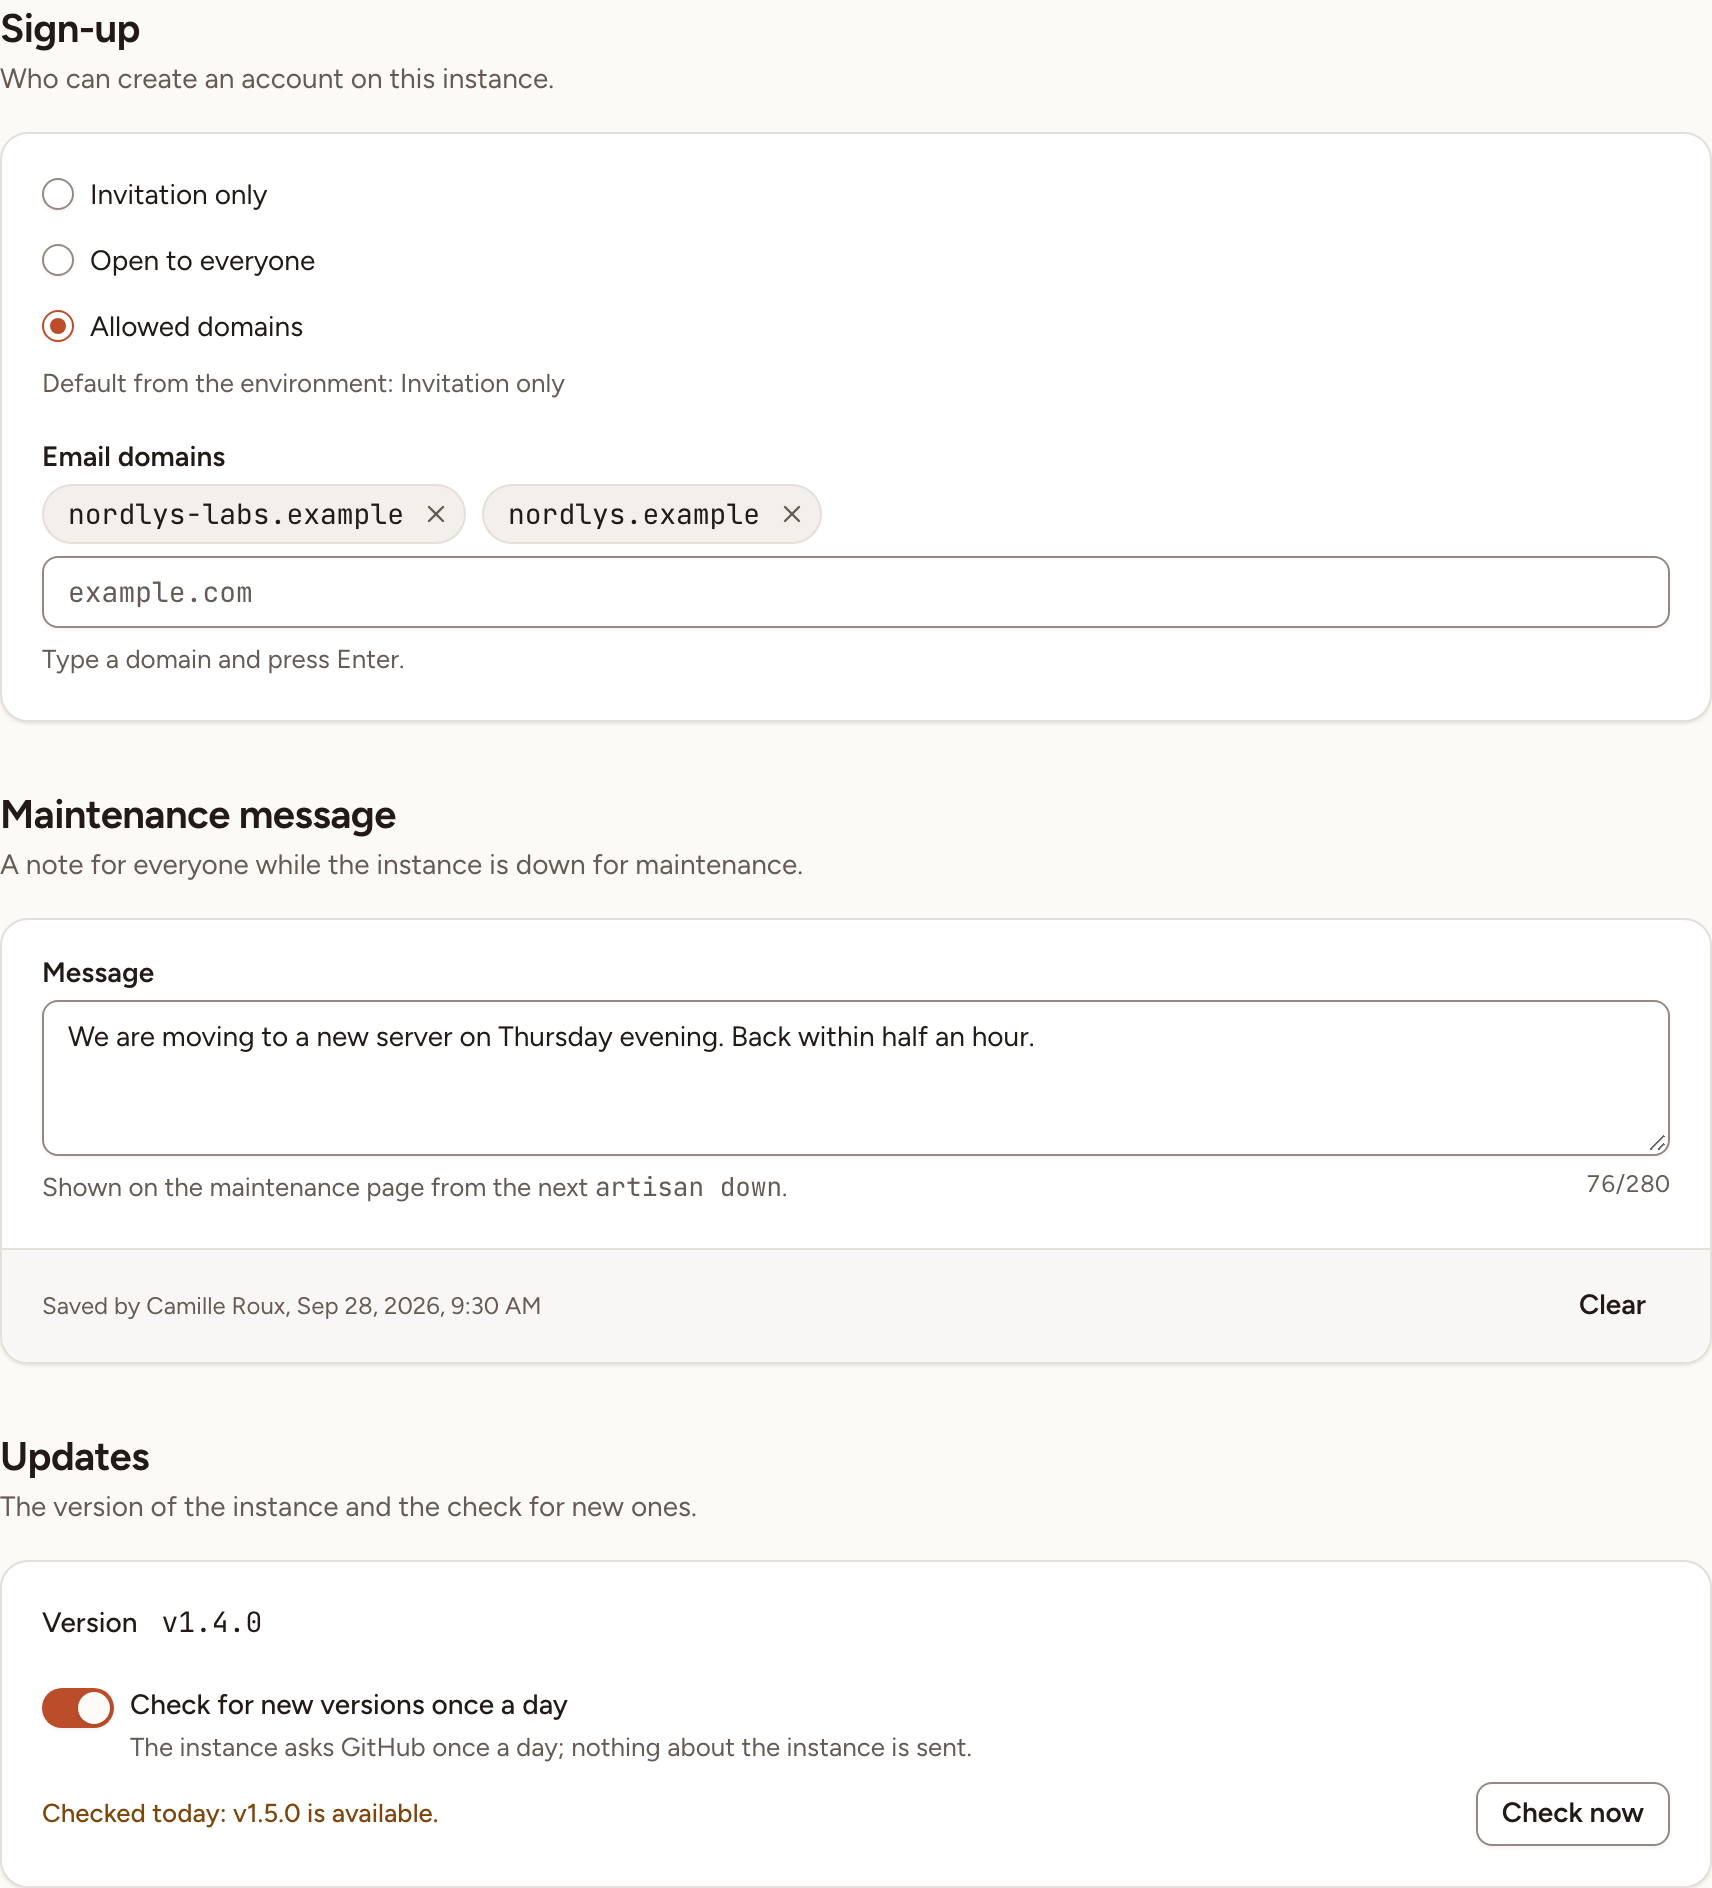
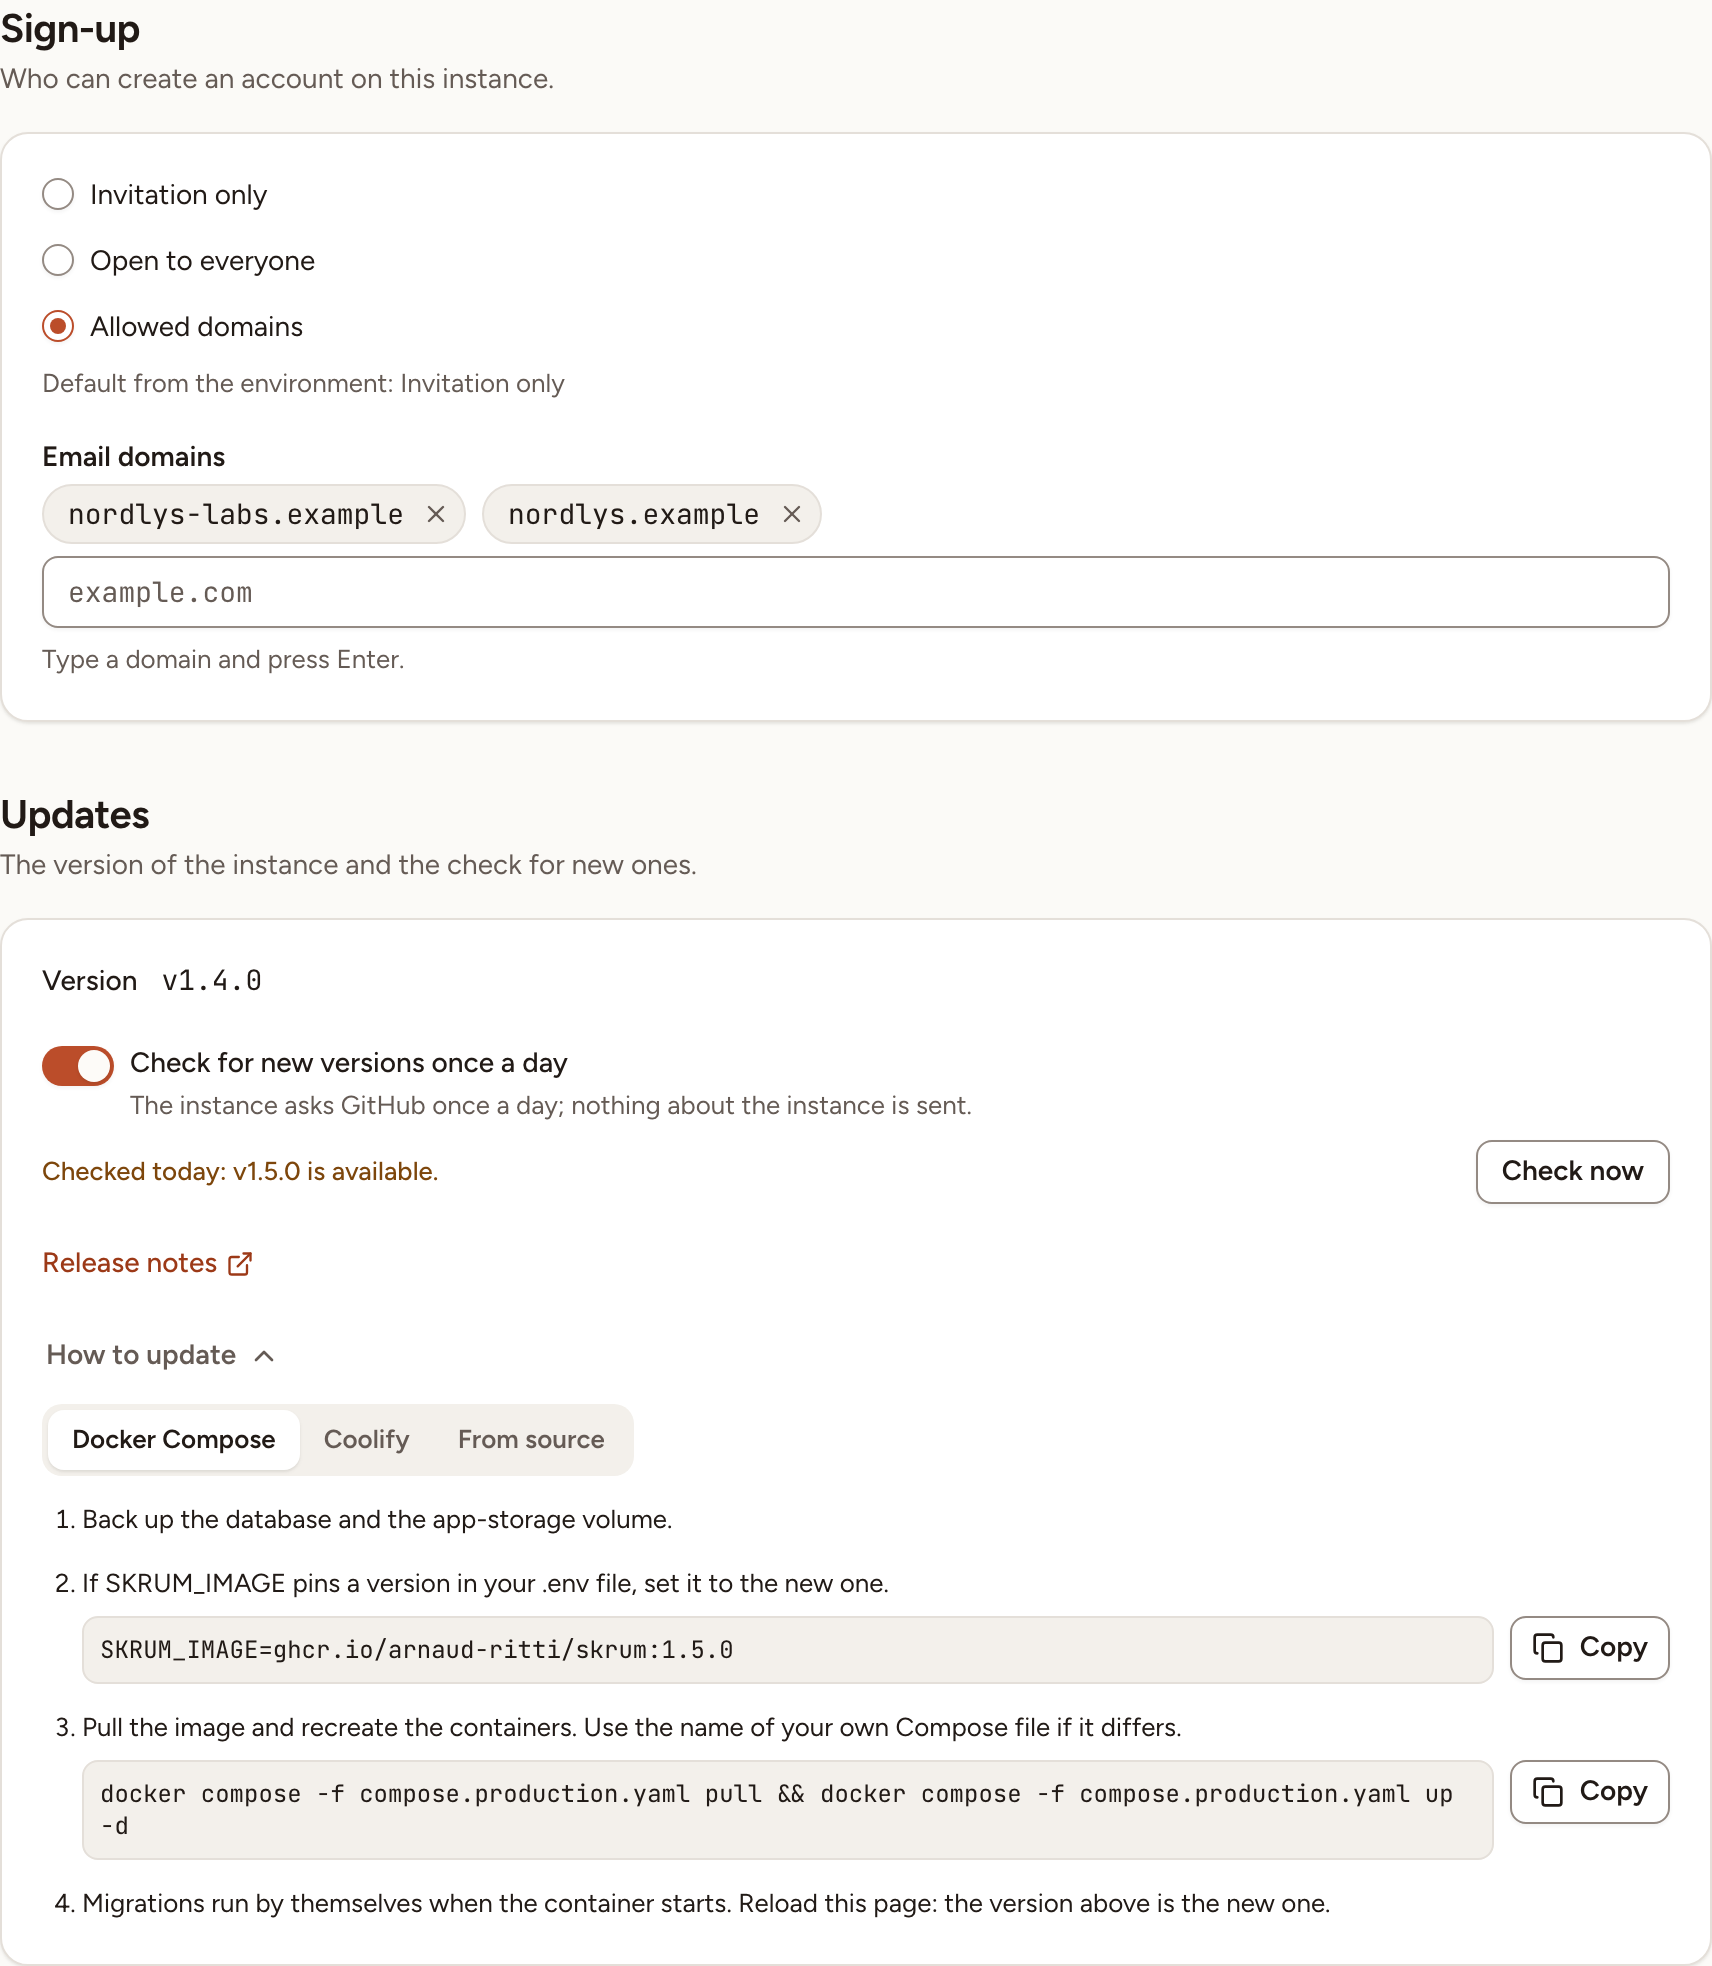
test(docs): the administration and self-hosting captures no longer set a maintenance message
c7cc30ae and cc948499 removed the maintenance message (and its
InstanceSettingKey cases) the same day the docs captures were written, so
both files died on `InstanceSettingKey::MaintenanceMessage`. The two captures
now set up the general settings and the maintenance page without it.

Running them refreshes the docs screenshots they produce; the admin
screenshots were taken before the Updates card learned how to update
(18aa8a21) and before the sidebar linked to the new release (a3d33d83).

diff --git a/tests/Browser/Docs/AdministrationDocsTest.php b/tests/Browser/Docs/AdministrationDocsTest.php
@@ -4,7 +4,6 @@ use App\Enums\AuditAction;
 use App\Enums\InstanceSettingKey;
 use App\Enums\McpScope;
 use App\Models\AuditEvent;
-use App\Models\InstanceSetting;
 use App\Models\PersonalAccessToken;
 use App\Models\Team;
 use App\Models\TeamIntegration;
@@ -78,30 +77,23 @@ function docsAdministrationEvent(AuditAction $action, ?User $actor, CarbonInterf
     ]);
 }
 
-it('shows the general settings with sign-up limited to two domains, a maintenance message and a newer version found', function () {
+it('shows the general settings with sign-up limited to two domains and a newer version found', function () {
     $world = DocsWorld::create();
     $admin = docsAdministrationAdmin($world);
 
     resolve(InstanceSettings::class)->setMany([
         InstanceSettingKey::SignupMode->value => 'domain',
         InstanceSettingKey::AllowedEmailDomains->value => ['nordlys.example', 'nordlys-labs.example'],
-        InstanceSettingKey::MaintenanceMessage->value => 'We are moving to a new server on Thursday evening. Back within half an hour.',
-        InstanceSettingKey::MaintenanceMessageBy->value => $admin->id,
         InstanceSettingKey::UpdateCheckEnabled->value => true,
         InstanceSettingKey::LatestVersion->value => '1.5.0',
         InstanceSettingKey::UpdateCheckedAt->value => now()->toIso8601String(),
     ]);
-
-    InstanceSetting::query()
-        ->where('key', InstanceSettingKey::MaintenanceMessage->value)
-        ->update(['updated_at' => '2026-09-28 09:30:00']);
 
     $path = route('admin.general.edit', [], false);
 
     $page = passwordConfirmedPage($this->docsVisit($admin, $path), $path)
         ->resize(1440, 1400)
         ->assertPresent('[data-slot="general-settings-form"] [data-slot="domain-chips"]')
-        ->assertPresent('[data-slot="maintenance-saved-by"]')
         ->assertSeeIn('[data-slot="update-last-check"]', 'v1.5.0 is available');
 
     $this->docShot($page, 'administration/general', '[data-slot="general-settings-form"]');

diff --git a/tests/Browser/Docs/SelfHostingDocsTest.php b/tests/Browser/Docs/SelfHostingDocsTest.php
@@ -1,7 +1,5 @@
 <?php
 
-use App\Enums\InstanceSettingKey;
-use App\Support\InstanceSettings;
 use Tests\Browser\Support\DocsWorld;
 
 it('shows the status page of a healthy instance whose mail is not configured, signed out', function () {
@@ -21,16 +19,8 @@ it('shows the status page of a healthy instance whose mail is not configured, si
     $this->docShot($page, 'self-hosting/status', '[data-slot="status-page"] main');
 });
 
-it('shows the maintenance page with the time of return and the message of the instance admin', function () {
-    $world = DocsWorld::create();
-    $camille = $world->person('Camille');
-
-    $camille->forceFill(['is_instance_admin' => true])->save();
-
-    resolve(InstanceSettings::class)->setMany([
-        InstanceSettingKey::MaintenanceMessage->value => 'Upgrading to the new version. Your boards are safe.',
-        InstanceSettingKey::MaintenanceMessageBy->value => $camille->id,
-    ]);
+it('shows the maintenance page with the time of return', function () {
+    DocsWorld::create();
 
     config(['app.maintenance.driver' => 'cache', 'app.maintenance.store' => 'array']);
 
@@ -39,7 +29,6 @@ it('shows the maintenance page with the time of return and the message of the in
     try {
         $page = $this->docsOpen('/')
             ->assertPresent('[data-slot="maintenance-page"] [data-slot="maintenance-back-at"] time')
-            ->assertSeeIn('[data-slot="maintenance-message"]', 'Camille Roux, instance admin')
             ->assertSeeIn('[data-slot="maintenance-back-at-zone"]', 'in about 30 min')
             ->assertVisible('[data-slot="maintenance-reload"]')
             ->resize(1440, 600);
